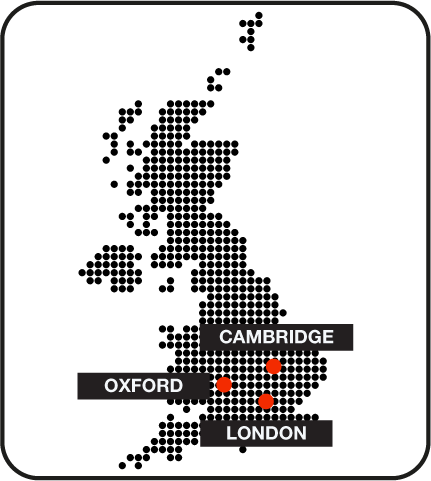
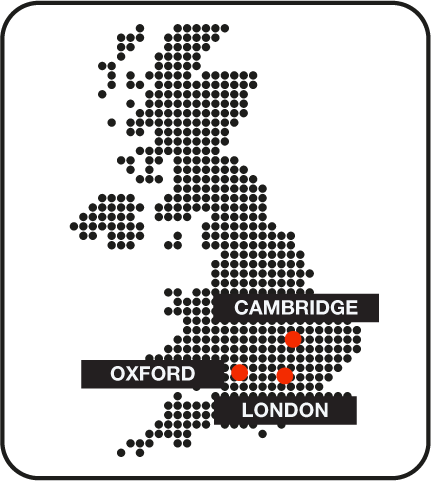
Update website

Changed region(s): [[0.1508, 0.0312, 0.9049, 0.9979], [0.2715, 0.0312, 0.3318, 0.1247], [0.2111, 0.1871, 0.2413, 0.2183]]

diff --git a/app/university-network/components/UniversityMapSection.module.css b/app/university-network/components/UniversityMapSection.module.css
@@ -123,8 +123,8 @@
 
 .popupClose {
   position: absolute;
-  top: -18px;
-  right: -18px;
+  top: 12px;
+  right: 12px;
   width: 36px;
   height: 36px;
   border-radius: 50%;
